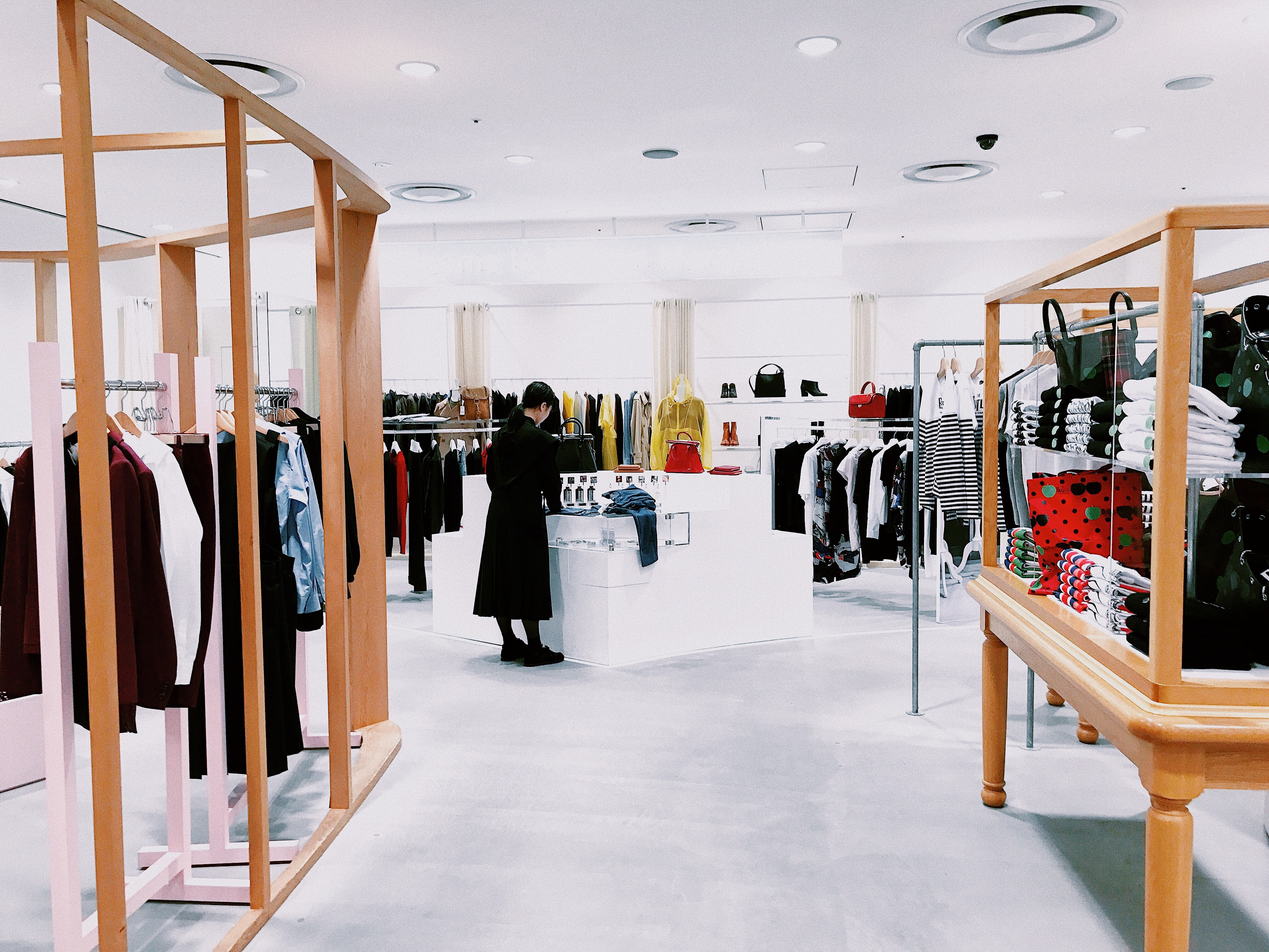
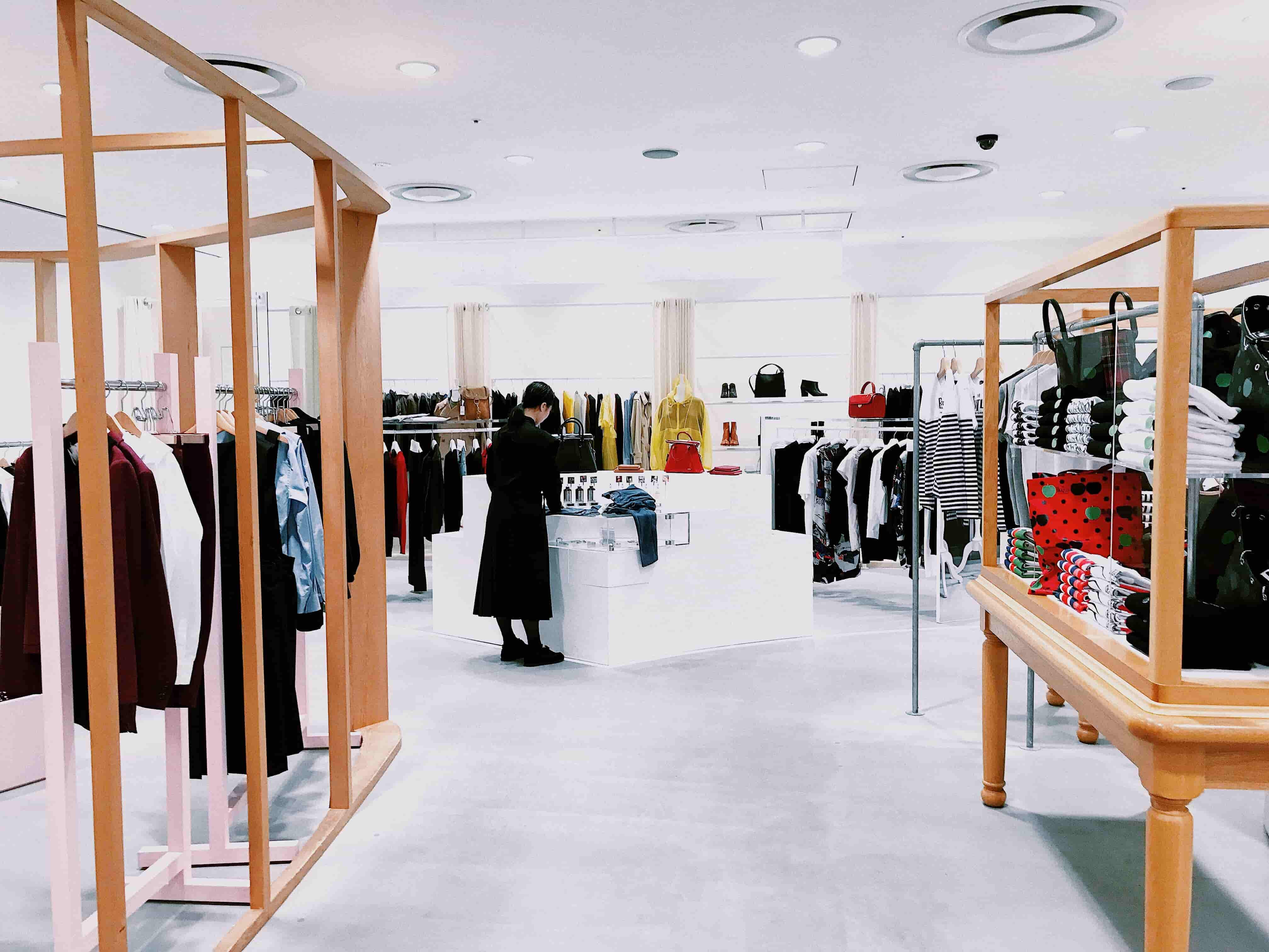
Added animation to title when album changed and compressed sample images

diff --git a/src/components/Main.js b/src/components/Main.js
@@ -4,6 +4,7 @@ import { UI } from "./UI";
 import { moveMultiIndex } from "move-position";
 import Footer from "./Footer";
 import PhotoCard from "./PhotoCard";
+import { TweenMax, Power3, TimelineLite } from "gsap";
 
 const photoCards = [
   { rotate: "10deg", bg: "purple", id: "brand" },
@@ -24,6 +25,8 @@ function Main({
   const { ui, setUi } = uiProp;
   const [photoCardArr, setPhotoCardArr] = useState(photoCards);
   const [scrollBarArr, setScrollBarArr] = useState(ScrollBars);
+  var myTween = new TimelineLite({ paused: true });
+
   useEffect(() => {
     setUi(UI[count]);
   }, [count]);
@@ -34,33 +37,75 @@ function Main({
   }, []);
 
   const handleNext = () => {
+    myTween
+      .to(".currentStyleTitle", {
+        y: -200,
+        duration: 0.5,
+      })
+      .to(".currentStyleTitle", {
+        y: 300,
+        duration: 0.0001,
+      })
+      .play();
     const movingMap = [
       { from: 0, to: 1 },
       { from: 1, to: 2 },
       { from: 2, to: 3 },
       { from: 3, to: 0 },
     ];
-    if (count >= 3) {
-      setCount(0);
-    } else {
-      setCount((prevCount) => prevCount + 1);
-    }
+    setTimeout(() => {
+      if (count >= 3) {
+        setCount(0);
+      } else {
+        setCount((prevCount) => prevCount + 1);
+      }
+    }, 700);
+
     setPhotoCardArr(moveMultiIndex(photoCardArr, movingMap));
+
+    TweenMax.fromTo(
+      ".background",
+      { backgroundColor: "rgba(0,0,0,0)" },
+      { backgroundColor: "rgba(0,0,0,0.8)", duration: 1, delay: 1 }
+    );
+    TweenMax.to(".currentStyleTitle", {
+      y: 0,
+      duration: 0.5,
+      delay: 0.7,
+    });
   };
   const handlePrev = () => {
+    myTween
+      .to(".currentStyleTitle", {
+        y: -200,
+        duration: 0.5,
+      })
+      .to(".currentStyleTitle", {
+        y: 300,
+        duration: 0.0001,
+      })
+      .play();
+
     const movingMap = [
       { from: 0, to: 3 },
       { from: 1, to: 0 },
       { from: 2, to: 1 },
       { from: 3, to: 2 },
     ];
-    if (count <= 0) {
-      setCount(3);
-    } else {
-      setCount((prevCount) => prevCount - 1);
-    }
+    setTimeout(() => {
+      if (count <= 0) {
+        setCount(3);
+      } else {
+        setCount((prevCount) => prevCount - 1);
+      }
+    }, 700);
     setPhotoCardArr(moveMultiIndex(photoCardArr, movingMap));
-    setScrollBarArr(moveMultiIndex(scrollBarArr, movingMap));
+
+    TweenMax.to(".currentStyleTitle", {
+      y: 0,
+      duration: 0.5,
+      delay: 0.7,
+    });
   };
   return (
     <div>

diff --git a/src/App.css b/src/App.css
@@ -9,7 +9,6 @@
 }
 
 .background {
-  height: 100vh;
   width: 100vw;
   background-size: cover;
   background-position: center;
@@ -74,6 +73,10 @@ footer {
   justify-content: space-between;
   align-items: flex-end;
 }
+.titleContainer {
+  overflow: hidden;
+  height: 200px;
+}
 .emailContainer {
   position: relative;
 }
@@ -109,12 +112,14 @@ main {
 }
 .currentStyleTitle {
   font-weight: normal;
-  font-size: 12rem;
+  font-size: 15rem;
   overflow: hidden;
   letter-spacing: 6px;
   align-self: flex-end;
   bottom: 0;
   color: #5e5e5e;
+
+  overflow: hidden;
 }
 
 .scrollIndicate {
@@ -228,7 +233,7 @@ main {
 .introAnimation {
   height: 100vh;
   width: 100vw;
-  background-color: black;
+  background-color: #f2f2f2;
   position: absolute;
   top: 0;
   left: 0;
@@ -236,13 +241,75 @@ main {
 }
 .introText {
   position: absolute;
-  left: 20%;
-  top: 30%;
+  color: #5e5e5e;
+
+  left: 50%;
+  top: 45%;
+  transform: translate(-50%, -50%);
+}
+.introText h3 {
+  font-weight: normal;
+  font-size: 1.8rem;
 }
 
-.introAnimation span {
-  display: block;
-  color: #fff;
-  font-family: "Playfair Display", serif;
-  font-size: 5rem;
+.counter {
+  position: absolute;
+  bottom: 10%;
+  left: 5%;
+  font-size: 3rem;
+  color: #5e5e5e;
+}
+
+/* -------------------------------------------album-------------------------------------- */
+.backButton {
+}
+
+.albumBody {
+  width: 70%;
+  margin: 0 auto;
+  height: 100vh;
+}
+
+.albumTitle {
+  text-align: center;
+  font-weight: normal;
+  font-size: 12rem;
+  text-transform: uppercase;
+  letter-spacing: 6px;
+  color: #f1f1f1;
+}
+
+.albumGrid {
+  display: grid;
+  grid-template-columns: repeat(3, 1fr);
+  grid-template-rows: repeat(5, 1fr);
+
+  gap: 5rem;
+  height: 100%;
+  width: 100%;
+  grid-template-areas:
+    "numberZero two four"
+    "numberZero two four"
+    "one two five"
+    "one three five"
+    "one three five";
+}
+
+.albumPhoto0 {
+  grid-area: numberZero;
+}
+.albumPhoto1 {
+  grid-area: one;
+}
+.albumPhoto2 {
+  grid-area: two;
+}
+.albumPhoto3 {
+  grid-area: three;
+}
+.albumPhoto4 {
+  grid-area: four;
+}
+.albumPhoto5 {
+  grid-area: five;
 }

diff --git a/src/components/IntroAnimation.js b/src/components/IntroAnimation.js
@@ -1,12 +1,18 @@
 import { faDivide } from "@fortawesome/free-solid-svg-icons";
-import React from "react";
+import React, { useEffect, useState } from "react";
+import CountTo from "react-count-to";
 
 function IntroAnimation() {
+  const fn = (value) => <span>%{value}</span>;
   return (
     <div className="introAnimation">
       <div className="introText">
-        <span>This is going to be a</span>
-        <span> Great animation.</span>
+        <h3>Just digging up my albums</h3>
+      </div>
+      <div className="counter">
+        <CountTo to={100} speed={1000}>
+          {fn}
+        </CountTo>
       </div>
     </div>
   );

diff --git a/src/photos/SnowArray.js b/src/photos/SnowArray.js
@@ -1,0 +1,10 @@
+//Import photos for each album here, use just straight import to start with and then update to fire base at a later date
+
+export const SnowArray = [
+  { url: "https://source.unsplash.com/random/800x600" },
+  { url: "https://source.unsplash.com/random/800x600" },
+  { url: "https://source.unsplash.com/random/800x600" },
+  { url: "https://source.unsplash.com/random/800x600" },
+  { url: "https://source.unsplash.com/random/800x600" },
+  { url: "https://source.unsplash.com/random/800x600" },
+];

diff --git a/src/components/Album.js b/src/components/Album.js
@@ -1,10 +1,17 @@
 import React from "react";
-
+import BackButton from "./BackButton";
+import Photo from "./Photo";
 function Album({ album }) {
   console.log(album);
   return (
-    <div>
-      <h2>{album.id}</h2>
+    <div className="albumBody">
+      <h2 className="albumTitle">{album.id}</h2>
+      <BackButton />
+      <div className="albumGrid">
+        {album.photos.map((photo, index) => (
+          <Photo url={photo.url} key={index} index={index} />
+        ))}
+      </div>
     </div>
   );
 }

diff --git a/src/App.js b/src/App.js
@@ -20,8 +20,8 @@ function App() {
     setAlbumActive((prevState) => !prevState);
   };
 
-  const bgIMG = { backgroundImage: `url(${ui.bg})` };
-  const bgColor = { backgroundColor: ui.bgC };
+  const bgIMG = { backgroundImage: `url(${ui.bg})`, height: "100vh" };
+  const bgColor = { backgroundColor: ui.bgC, height: "200vh" };
   return (
     <div className="background" style={!albumActive ? bgIMG : bgColor}>
       {/* <IntroAnimation /> */}

diff --git a/src/components/ComponentArrays.js b/src/components/ComponentArrays.js
@@ -1,5 +1,5 @@
 import React from "react";
-
+import { SnowArray } from "../photos/SnowArray";
 import ScrollBar from "./ScrollBar";
 
 export const ScrollBars = [
@@ -11,7 +11,7 @@ export const ScrollBars = [
 
 export const AlbumType = [
   { bg: "blue", id: "surf" },
-  { bg: "green", id: "snow" },
+  { bg: "green", id: "snow", photos: [...SnowArray] },
   { bg: "yellow", id: "travel" },
   { bg: "purple", id: "brand" },
 ];

diff --git a/src/components/Footer.js b/src/components/Footer.js
@@ -4,8 +4,9 @@ function Footer({ ui }) {
   return (
     <footer>
       <div className="scrollIndicate">{ScrollBars}</div>
-
-      <h2 className="currentStyleTitle">{ui.title}</h2>
+      <div className="titleContainer">
+        <h2 className="currentStyleTitle">{ui.title}</h2>
+      </div>
 
       <div className="emailContianer">
         <h3 className="email">JohnDoe@gmail.com</h3>

diff --git a/src/components/Photo.js b/src/components/Photo.js
@@ -1,0 +1,17 @@
+import React from "react";
+
+function Photo({ url, index }) {
+  return (
+    <div
+      className={`albumPhoto albumPhoto${index}`}
+      style={{
+        backgroundImage: `url(${url})`,
+        backgroundPosition: "center",
+        backgroundSize: "cover",
+        backgroundRepeat: "no-repeat",
+      }}
+    ></div>
+  );
+}
+
+export default Photo;

diff --git a/src/components/BackButton.js b/src/components/BackButton.js
@@ -1,0 +1,12 @@
+import React from "react";
+import { Link } from "react-router-dom";
+
+function BackButton() {
+  return (
+    <Link to="/">
+      <button className="backButton">&larr; Back</button>
+    </Link>
+  );
+}
+
+export default BackButton;

diff --git a/src/components/useLocalStorage.js b/src/components/useLocalStorage.js
@@ -11,6 +11,5 @@ export const useLocalStorage = (initialState, key) => {
   useEffect(() => {
     localStorage.setItem(key, JSON.stringify(value));
   }, [value]);
-
   return [value, setValue];
 };
